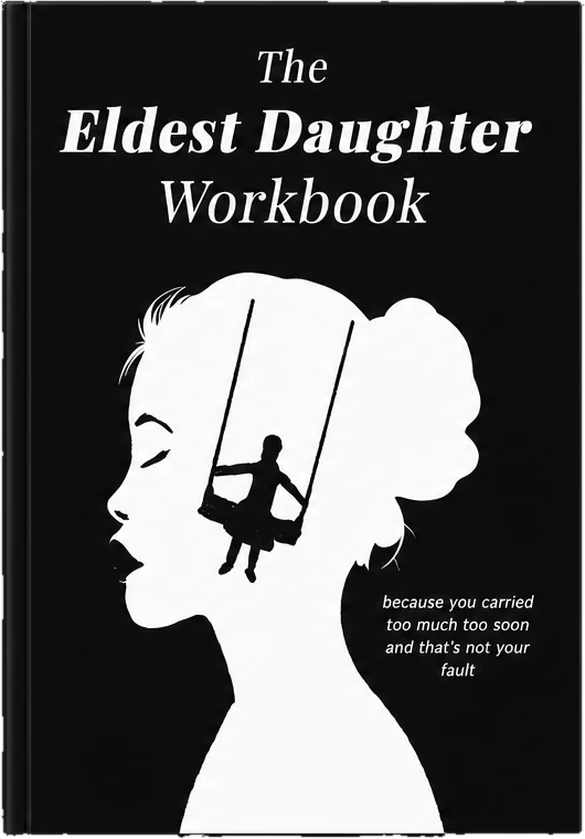
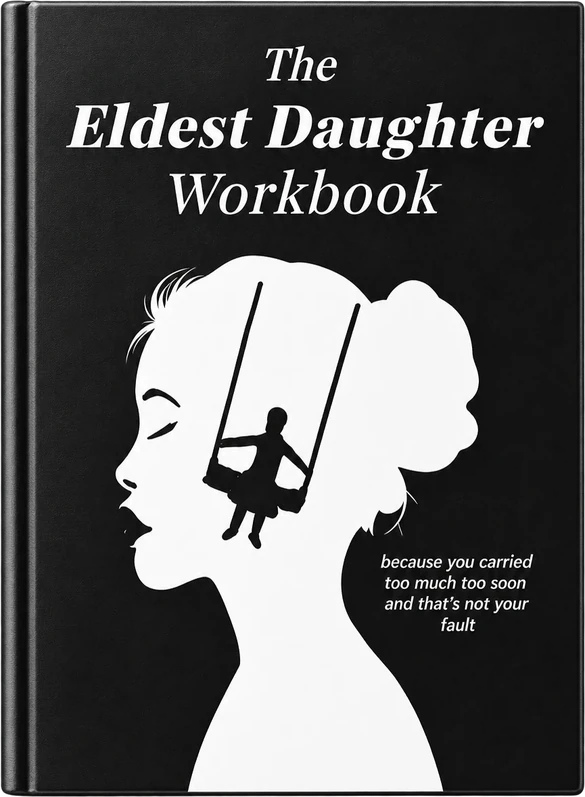
New paperback image (offer + mid-page); FAQ 'is this a physical book?' answers 'both' once the paperback is on sale
Claude-Session: https://claude.ai/code/session_01LL1mB2P2VRvoL1n8mHXFs8

diff --git a/index.html b/index.html
@@ -100,6 +100,8 @@ fbq('track','PageView',{},{eventID:pageViewEventId});
   .big{font-family:var(--serif);font-size:24px;line-height:1.35;letter-spacing:-.01em}
   .figure{margin:0 0 16px}
   .figure img{width:100%;height:auto;mix-blend-mode:multiply}
+  .figure--book{display:flex;justify-content:center;padding:12px 0 8px}
+  .figure--book img{width:auto;height:260px}
   hr.dots{border:0;text-align:center;margin:40px 0}
   hr.dots::before{content:"✦ ✦ ✦";color:var(--muted);letter-spacing:.6em;font-size:15px}
 
@@ -190,6 +192,7 @@ fbq('track','PageView',{},{eventID:pageViewEventId});
   .offer-info{display:flex;flex-direction:column;gap:6px;align-items:inherit}
   /* format options (digital / paperback): stacked cards, the chosen one gets the dark border */
   .fmt[hidden]{display:none}
+  .pb-only{display:none} html.pb .pb-only{display:inline} html.pb .pb-hide{display:none}  /* paperback on sale: html gets class pb */
   #total,.fmt .pr,.offer .price .now{font-variant-numeric:tabular-nums lining-nums}
   #total{display:inline-block;min-width:2.4em;text-align:right}
   .fmt{display:grid;grid-auto-rows:1fr;gap:18px;margin:24px 0 20px}  /* both cards always the same height */
@@ -379,8 +382,8 @@ fbq('track','PageView',{},{eventID:pageViewEventId});
   <p>if you checked even one? welcome to the eldest daughter's club.</p>
   <p class="early"><a href="#offer">get the workbook for $9 ↓</a></p>
 
-  <figure class="figure">
-    <img src="images/eds book.webp" alt="the eldest daughter workbook" width="1536" height="1024" loading="lazy" decoding="async">
+  <figure class="figure figure--book">
+    <img src="images/offer-paperback.webp" alt="the eldest daughter workbook" width="585" height="797" loading="lazy" decoding="async">
   </figure>
 
   <!-- ===== WHAT'S INSIDE ===== -->
@@ -469,7 +472,7 @@ fbq('track','PageView',{},{eventID:pageViewEventId});
     <div class="offer-top">
       <div class="covers">  <!-- both images sit in one fixed box and cross-fade, so nothing moves when the format changes -->
         <img class="cover on" data-f="digital" src="images/offer-workbook-tablet.webp" alt="the eldest daughter workbook on a tablet" width="540" height="701" loading="lazy" decoding="async">
-        <img class="cover" data-f="print" src="images/offer-paperback.webp" alt="the eldest daughter workbook paperback" width="585" height="839" loading="lazy" decoding="async">
+        <img class="cover" data-f="print" src="images/offer-paperback.webp" alt="the eldest daughter workbook paperback" width="585" height="797" loading="lazy" decoding="async">
       </div>
       <div class="offer-info">
         <h2>the eldest daughter workbook</h2>
@@ -508,7 +511,7 @@ fbq('track','PageView',{},{eventID:pageViewEventId});
   <div class="faq">
     <details>
       <summary>is this a physical book?</summary>
-      <div class="a">no, it's digital, which is why you can start tonight instead of waiting for shipping.</div>
+      <div class="a"><span class="pb-hide">no, it's digital, which is why you can start tonight instead of waiting for shipping.</span><span class="pb-only">both. the digital workbook arrives instantly. the paperback is printed and shipped to your door, and the pdf is included so you can start tonight.</span></div>
     </details>
 
     <details>
@@ -611,7 +614,7 @@ fbq('track','PageView',{},{eventID:pageViewEventId});
   // step 1 of the pop-up: the two $7 add-ons, then step 2: stripe's payment form with exactly what was chosen
   // format switch on the offer card: digital $9 or paperback $27 (pdf included, printed and shipped by lulu)
   // preview links (*.vercel.app) show it before launch so it can be tried with test cards
-  if(/\.vercel\.app$/.test(location.hostname)){ var fmtEl=document.querySelector('.fmt'); if(fmtEl){ fmtEl.hidden=false; document.getElementById('offer').classList.add('has-fmt'); } }
+  if(/\.vercel\.app$/.test(location.hostname)){ var fmtEl=document.querySelector('.fmt'); if(fmtEl){ fmtEl.hidden=false; document.getElementById('offer').classList.add('has-fmt'); document.documentElement.classList.add('pb'); } }
   (function(){ var el=document.getElementById('ship-eta'); if(!el) return;
     function add(n){ var d=new Date(); while(n>0){ d.setDate(d.getDate()+1); if(d.getDay()%6) n--; } return d; }
     var f=function(d){ return d.toLocaleDateString('en-US',{month:'short',day:'numeric'}).toLowerCase(); };
